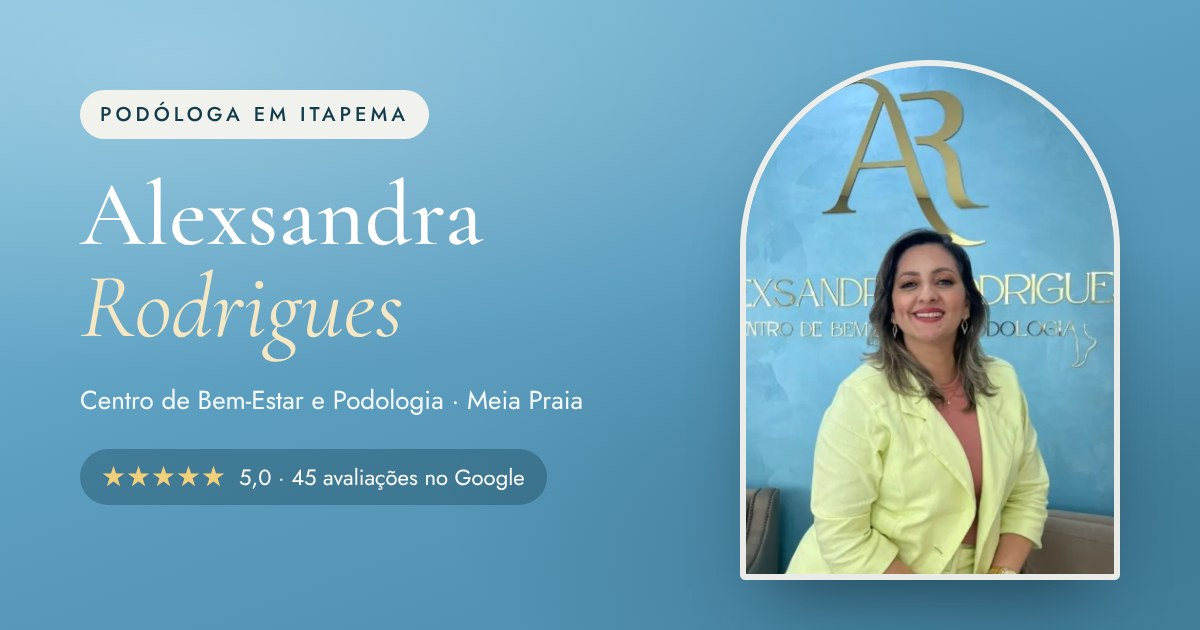
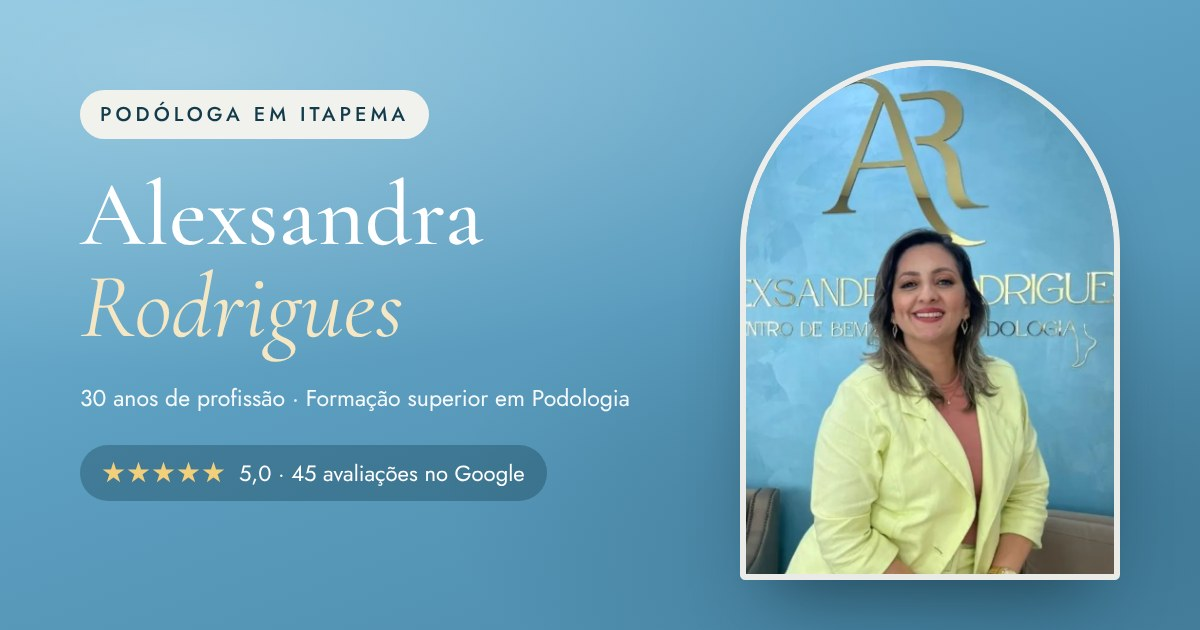
Credenciais da Alexsandra e troca de fungo por micose
Destaca os 30 anos de profissão e a formação superior em Podologia
pela Universidade Anhembi Morumbi (primeira podóloga de Itapema com
nível superior) no hero, no Sobre, no FAQ, no schema Person
(alumniOf, hasCredential), no llms.txt e na imagem de compartilhamento.
Troca "fungos" por "micose" em toda a copy e na âncora do tratamento.

Claude-Session: https://claude.ai/code/session_011mZctE9ikUXLgzcFT2FD8m

Changed region(s): [[0.0617, 0.6937, 0.4625, 0.8143], [0.0617, 0.6032, 0.5242, 0.6635]]

diff --git a/shared/business.ts b/shared/business.ts
@@ -40,6 +40,10 @@ export const business = {
     closes: '18:00',
   },
   rating: { value: '5,0', count: 45 },
+  yearsExperience: 30,
+  university: 'Universidade Anhembi Morumbi',
+  universityCity: 'São Paulo',
+  pioneer: 'Primeira podóloga de Itapema com formação de nível superior em Podologia',
 } as const
 
 export const waLink = (msg = 'Oi, Alexsandra! Vim pelo site e quero agendar uma avaliação.') =>
@@ -53,9 +57,9 @@ export const services = [
     icon: 'nail',
   },
   {
-    slug: 'fungos-nas-unhas',
-    title: 'Fungos nas unhas',
-    short: 'Tratamento da onicomicose com acompanhamento, pra unha voltar a crescer saudável.',
+    slug: 'micose-nas-unhas',
+    title: 'Micose nas unhas',
+    short: 'Tratamento da micose de unha (onicomicose) com acompanhamento, pra unha voltar a crescer saudável.',
     icon: 'drop',
   },
   {
@@ -116,8 +120,12 @@ export const faqs = [
     a: 'De segunda a sábado, das 9h às 18h. Domingo o consultório fica fechado. O atendimento é com hora marcada pelo WhatsApp (47) 99731-9955.',
   },
   {
+    q: 'A Alexsandra Rodrigues tem formação em Podologia?',
+    a: 'Tem. Ela é a primeira podóloga de Itapema com formação de nível superior em Podologia, pela Universidade Anhembi Morumbi, em São Paulo. São 30 anos de profissão, com especializações na área.',
+  },
+  {
     q: 'O que faz uma podóloga?',
-    a: 'A podóloga cuida da saúde dos pés e das unhas: trata unha encravada, fungos, calos, rachaduras e acompanha pés de pessoas com diabetes. É um cuidado de saúde, diferente de pedicure estética.',
+    a: 'A podóloga cuida da saúde dos pés e das unhas: trata unha encravada, micose, calos, rachaduras e acompanha pés de pessoas com diabetes. É um cuidado de saúde, diferente de pedicure estética.',
   },
   {
     q: 'Tratar unha encravada dói?',
@@ -128,7 +136,7 @@ export const faqs = [
     a: 'Pode e deve. Pessoas com diabetes têm mais risco de feridas nos pés que demoram a cicatrizar, por isso o acompanhamento com podóloga ajuda a prevenir complicações. O atendimento é feito com cuidados específicos pra esse público.',
   },
   {
-    q: 'Quantas sessões preciso pra tratar fungos na unha?',
+    q: 'Quantas sessões preciso pra tratar micose na unha?',
     a: 'Depende do quanto a unha está comprometida. Na avaliação a Alexsandra explica o plano de tratamento e a frequência ideal pro seu caso, sem promessa genérica.',
   },
   {

diff --git a/app/components/HeroSection.vue b/app/components/HeroSection.vue
@@ -16,7 +16,7 @@ import { business, waLink } from '#shared/business'
         </h1>
 
         <p class="hero__lead" data-reveal style="--d: 420ms">
-          Unha encravada, fungos, calos e pé diabético. A Alexsandra Rodrigues atende com hora marcada,
+          Unha encravada, micose, calos e pé diabético. A Alexsandra Rodrigues atende com hora marcada,
           tempo pra ouvir e um tratamento pensado pro seu caso.
         </p>
 
@@ -45,6 +45,12 @@ import { business, waLink } from '#shared/business'
           </span>
           <span class="rating__text"><strong>{{ business.rating.value }}</strong> · {{ business.rating.count }} avaliações no Google</span>
         </a>
+
+        <p class="creds" data-reveal style="--d: 760ms">
+          <span><strong>{{ business.yearsExperience }} anos</strong> de profissão</span>
+          <span class="creds__dot" aria-hidden="true" />
+          <span>Formação superior em Podologia pela <strong>Anhembi Morumbi</strong></span>
+        </p>
       </div>
 
       <div class="hero__visual">
@@ -69,7 +75,7 @@ import { business, waLink } from '#shared/business'
         </div>
         <div class="float-card float-card--b" data-reveal="left" style="--d: 820ms">
           <UiIcon name="graduation" :size="22" />
-          <span>Mentora <strong>#Podolovers</strong></span>
+          <span><strong>1ª de Itapema</strong> com formação<br>superior em Podologia</span>
         </div>
 
         <svg class="hero__swash" viewBox="0 0 400 400" aria-hidden="true">
@@ -186,6 +192,25 @@ import { business, waLink } from '#shared/business'
 }
 .rating__text strong {
   font-weight: 600;
+}
+.creds {
+  display: flex;
+  flex-wrap: wrap;
+  align-items: center;
+  gap: 8px 14px;
+  margin-top: 18px;
+  font-size: 0.92rem;
+  color: rgba(255, 255, 255, 0.92);
+}
+.creds strong {
+  font-weight: 600;
+  color: #fff;
+}
+.creds__dot {
+  width: 4px;
+  height: 4px;
+  border-radius: 50%;
+  background: var(--gold-light);
 }
 
 /* visual */
@@ -329,6 +354,14 @@ import { business, waLink } from '#shared/business'
 @media (max-width: 520px) {
   .hero__actions .btn {
     width: 100%;
+  }
+  .creds {
+    flex-direction: column;
+    align-items: flex-start;
+    gap: 4px;
+  }
+  .creds__dot {
+    display: none;
   }
   .float-card {
     padding: 10px 14px;

diff --git a/app/components/AboutSection.vue b/app/components/AboutSection.vue
@@ -23,7 +23,7 @@ import { business } from '#shared/business'
         </figure>
         <div class="about__badge" data-reveal="zoom" style="--d: 300ms">
           <BrandMonogram :size="54" />
-          <span>Empresa<br>liderada por<br>mulher</span>
+          <span>1ª de Itapema<br>com formação<br>superior</span>
         </div>
       </div>
 
@@ -33,8 +33,12 @@ import { business } from '#shared/business'
           Prazer, <em>Alexsandra Rodrigues.</em>
         </h2>
         <p data-reveal style="--d: 180ms">
-          Podologista e laserterapeuta, a Alexsandra atende em Meia Praia, no Centro de Bem-Estar e Podologia que leva o nome dela.
-          O espaço novo foi inaugurado em 2024, e foi assim que ela contou a novidade no Instagram:
+          São {{ business.yearsExperience }} anos de profissão. A Alexsandra é a primeira podóloga de Itapema com formação de nível
+          superior em Podologia, pela {{ business.university }}, em {{ business.universityCity }}, e tem especializações na área.
+        </p>
+        <p data-reveal style="--d: 210ms">
+          Hoje ela atende em Meia Praia, no Centro de Bem-Estar e Podologia que leva o nome dela. O espaço novo foi inaugurado
+          em 2024, e foi assim que ela contou a novidade no Instagram:
         </p>
 
         <blockquote class="quote" data-reveal style="--d: 240ms">
@@ -57,8 +61,8 @@ import { business } from '#shared/business'
             <span>avaliações de clientes</span>
           </li>
           <li>
-            <strong>Seg a sáb</strong>
-            <span>das 9h às 18h</span>
+            <strong>{{ business.yearsExperience }} anos</strong>
+            <span>de profissão</span>
           </li>
         </ul>
       </div>

diff --git a/app/pages/index.vue b/app/pages/index.vue
@@ -5,7 +5,7 @@ const { public: { siteUrl } } = useRuntimeConfig()
 
 const title = 'Podóloga em Itapema | Alexsandra Rodrigues · Meia Praia'
 const description =
-  'Podóloga em Itapema (Meia Praia) com nota 5,0 no Google. Unha encravada, fungos, calos, pé diabético e laserterapia. Agende pelo WhatsApp (47) 99731-9955.'
+  'Podóloga em Itapema há 30 anos, com formação superior pela Anhembi Morumbi e nota 5,0 no Google. Unha encravada, micose, pé diabético e laserterapia.'
 const ogImage = `${siteUrl}/og-image.jpg`
 
 useSeoMeta({
@@ -99,7 +99,20 @@ const jsonLd = {
       '@id': personId,
       name: business.person,
       jobTitle: business.role,
+      description: `${business.pioneer}, formada pela ${business.university} (${business.universityCity}). ${business.yearsExperience} anos de profissão.`,
       worksFor: { '@id': orgId },
+      alumniOf: { '@type': 'CollegeOrUniversity', name: business.university, address: { '@type': 'PostalAddress', addressLocality: business.universityCity, addressCountry: 'BR' } },
+      hasCredential: {
+        '@type': 'EducationalOccupationalCredential',
+        credentialCategory: 'degree',
+        name: 'Formação de nível superior em Podologia',
+        recognizedBy: { '@type': 'CollegeOrUniversity', name: business.university },
+      },
+      hasOccupation: {
+        '@type': 'Occupation',
+        name: 'Podóloga',
+        experienceRequirements: `${business.yearsExperience} anos de experiência`,
+      },
       image: `${siteUrl}/img/alexsandra-retrato-860.webp`,
       sameAs: [business.instagram],
       knowsAbout: ['Podologia', 'Laserterapia', 'Pé diabético'],

diff --git a/server/routes/llms.txt.ts b/server/routes/llms.txt.ts
@@ -9,12 +9,15 @@ export default defineEventHandler((event) => {
 
   return `# ${business.name}
 
-> ${business.person} é podóloga em Itapema (Santa Catarina), no bairro Meia Praia. Podologista e laserterapeuta, atende no ${business.tagline} que leva o nome dela. Nota ${business.rating.value} no Google com ${business.rating.count} avaliações. Agendamento pelo WhatsApp ${business.phoneDisplay}.
+> ${business.person} é podóloga em Itapema (Santa Catarina), no bairro Meia Praia. É a primeira podóloga de Itapema com formação de nível superior em Podologia (${business.university}, ${business.universityCity}) e tem ${business.yearsExperience} anos de profissão. Podologista e laserterapeuta, atende no ${business.tagline} que leva o nome dela. Nota ${business.rating.value} no Google com ${business.rating.count} avaliações. Agendamento pelo WhatsApp ${business.phoneDisplay}.
 
 ## Dados principais
 
 - Nome: ${business.name}
 - Profissional: ${business.person}, ${business.role}
+- Formação: nível superior em Podologia pela ${business.university} (${business.universityCity})
+- Diferencial: ${business.pioneer}
+- Experiência: ${business.yearsExperience} anos de profissão, com especializações na área
 - Especialidade: podologia clínica e laserterapia
 - Endereço: ${a.street}, ${a.building}, ${a.district}, ${a.city} - ${a.state}, CEP ${a.postalCode}, Brasil
 - Referência: ${a.reference}

diff --git a/app/components/SiteFooter.vue b/app/components/SiteFooter.vue
@@ -10,7 +10,7 @@ const year = new Date().getFullYear()
         <BrandMonogram :size="56" tone="light" />
         <p class="footer__name">Alexsandra Rodrigues</p>
         <p class="footer__tag">Centro de Bem-Estar e Podologia</p>
-        <p class="footer__desc">Podóloga em Itapema (SC), no bairro Meia Praia. Podologista e laserterapeuta.</p>
+        <p class="footer__desc">Podóloga em Itapema (SC), no bairro Meia Praia. 30 anos de profissão e formação superior em Podologia pela Anhembi Morumbi.</p>
       </div>
       <nav aria-label="Tratamentos">
         <h2 class="footer__title">Tratamentos</h2>

diff --git a/app/components/UiIcon.vue b/app/components/UiIcon.vue
@@ -21,7 +21,7 @@ defineProps<{ name: string; size?: number }>()
       <path d="M9 9.5a3 3 0 0 1 6 0V13H9z" />
       <path d="M7 17h10" />
     </template>
-    <!-- gota / fungos -->
+    <!-- gota / micose -->
     <template v-else-if="name === 'drop'">
       <path d="M12 3s6 6.5 6 11a6 6 0 0 1-12 0c0-4.5 6-11 6-11z" />
       <path d="M9.5 14.5a2.5 2.5 0 0 0 2.5 2.5" />

diff --git a/app/components/MarqueeBand.vue b/app/components/MarqueeBand.vue
@@ -1,11 +1,12 @@
 <script setup lang="ts">
 const items = [
   'Unha encravada',
-  'Fungos nas unhas',
+  'Micose nas unhas',
   'Laserterapia',
   'Pé diabético',
   'Calos e calosidades',
   'Rachaduras',
+  '30 anos de profissão',
   'Podologia clínica',
   'Meia Praia · Itapema',
 ]
